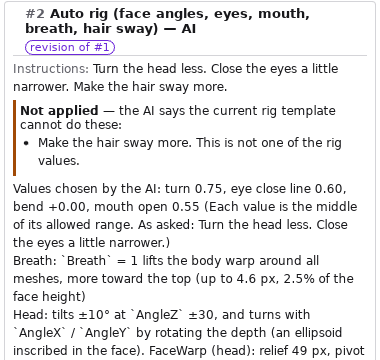
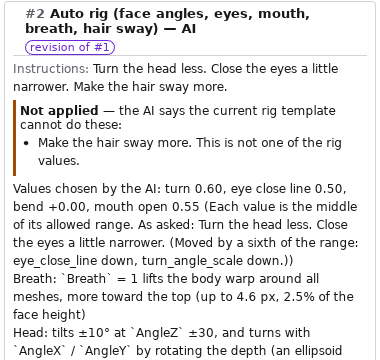
test(editor): make the fake ai provider follow instructions and retake ai-revision (T0061)
- test(editor): move rig values the fake ai provider follows and retake ai-revision
- chore(tasks): mark T0061 for review

Changed region(s): [[0.0289, 0.6417, 0.9553, 1.0], [0.55, 0.4889, 0.5789, 0.55], [0.8395, 0.5194, 0.8684, 0.55]]

diff --git a/docs/tasks/T0061-e2e-fake-ai-follows-instructions.md b/docs/tasks/T0061-e2e-fake-ai-follows-instructions.md
@@ -1,7 +1,7 @@
 ---
 id: T0061
 title: "e2e: 偽の AI のプロバイダが、注文に従うときに実際にリグの値を変え、ai-revision.png を撮り直す"
-status: in-progress
+status: done
 milestone: M10
 crates: [tests/e2e, docs]
 depends_on: [T0059]
@@ -18,11 +18,11 @@ assignee: claude-worker-T0061
 
 ## 受け入れ条件
 
-- [ ] 偽のプロバイダが、リグの値で従える注文の文 (例: 振り向きを大きく・目を細く) に従うとき、対応する値を決まった形で変える
+- [x] 偽のプロバイダが、リグの値で従える注文の文 (例: 振り向きを大きく・目を細く) に従うとき、対応する値を決まった形で変える
       (同じ注文なら同じ値。従えない文の `Not applied:` は今のまま)。変える規則を fake-ai.mjs のコメントと tests/e2e/README.md に書いた
-- [ ] 偽のプロバイダの単体テストがあれば足す (無ければ、作り直した提案の値が前と違うことを筋書きの中で確かめる)
-- [ ] `just e2e --manual` で ai-revision.png など注文の作り直しを写す画像を撮り直し、マニュアル (docs/manual) の説明と合うことを確かめた
-- [ ] `just e2e --only editor` と `just ci` が通る
+- [x] 偽のプロバイダの単体テストがあれば足す (無ければ、作り直した提案の値が前と違うことを筋書きの中で確かめる)
+- [x] `just e2e --manual` で ai-revision.png など注文の作り直しを写す画像を撮り直し、マニュアル (docs/manual) の説明と合うことを確かめた
+- [x] `just e2e --only editor` と `just ci` が通る
 
 ## 参考
 
@@ -33,3 +33,26 @@ assignee: claude-worker-T0061
 
 - T0058 で起票した (元の候補: T0969 (偽の AI のプロバイダが注文に従った値を返す))。
 - 同じ tests/e2e を触る T0059 (ビルドの形) の後にした。
+
+### T0061 の作業 (やったこと)
+
+- `tests/e2e/lib/fake-ai.mjs`: 注文の従う文 (髪・揺れ・帽子などの `Not applied:` の外) が、値の言葉 (振り向き・頭・turn・head →
+  `turn_angle_scale`、目・eye → `eye_close_line`、笑・smile → `eye_close_bend` (向きは逆)、口・mouth → `mouth_open_height`) と
+  向きの言葉 (控えめ・小さ・細・弱・less・narrower など / 大き・太・広・強・more・wider など) を持てば、その値を範囲の 6 分の 1 だけ
+  下げるか上げる (文ごとに足し、範囲の端で止める)。同じ注文なら同じ値。理由に `(Moved by a sixth of the range: <名前> down, ...)` を足す。
+  規則はファイルの先頭のコメントと tests/e2e/README.md (「偽の AI のプロバイダ」) に書いた。`Not applied:` の答えは変えていない。
+- 偽のプロバイダの単体テストは無いので、マニュアルの筋書き (`specs/editor.manual.mjs` の `ai-revision`) で、`get_proposals` の理由の
+  「Values chosen by the AI」が #1 は `turn 0.75, eye close line 0.60, ...`、作り直しは `turn 0.60, eye close line 0.50, ...` であることを確かめる。
+- `just e2e --update-images --only editor` (`--manual` を含む) で `ai-revision.png` を撮り直してコミットした (値が 0.60・0.50 に変わった)。
+  画像にパスは写っていない (カードの文だけ) ことを画像で確かめた。`ai-proposal.png` は注文が無いので変わらなかった。
+  docs/manual/ai.md の画像の説明に、値が注文に従って #1 より小さいことを足した。docs/manual-check.md の偽物の説明も今の形にした。
+- `just e2e --only editor`・`just e2e --update-images --only editor`・`just ci` が通った。
+
+### やらなかったこと
+
+- ai-revision の外の画像は、撮り直した結果をコミットしていない (動きの途中の差だけで、このタスクの範囲の外)。
+- 偽のプロバイダの単体テスト (`node --test`) は作っていない (just のレシピに足すのが範囲の外のため。筋書きで確かめる)。
+
+### 起票の候補
+
+- 無し。

diff --git a/tests/e2e/README.md b/tests/e2e/README.md
@@ -166,8 +166,14 @@ CI では失敗したときに `target/e2e` (実行ファイルを除く) を成
 - 提案の元は 2 つ: 見本の着せ替えの本体に「Import PSD…」で取り込んだ PSD (物理とスロットを持つ本体に提案を重ねる。リグの提案が
   本体の物理の衝突体 `Shoulders` を外し、スロット `Hair` の参照が壊れて提案が作れなかった T1627 の回帰) と、「New from PSD…」で
   作った本体の要素の無いプロジェクト (T0039)。どちらも `proposeAndPreview` (specs/editor.test.mjs) で提案とプレビューを確かめる。
-- 利用者の注文 (プロンプトの `<user_instructions>`) があれば、リグの値の理由に、従った文と、髪・揺れ・帽子のようにリグの値では変えられない
-  文の `Not applied:` の行を足す (マニュアルの画像 `ai-revision` の「Not applied」)。値は変えない。
+- 利用者の注文 (プロンプトの `<user_instructions>`) があれば、文 (`。`・`.`・`!`・`?` で区切る) ごとに答える。髪・揺れ・帽子のように
+  リグの値では変えられない文は、理由に `Not applied:` の行を足す (マニュアルの画像 `ai-revision` の「Not applied」)。ほかの文には従う:
+  文が値の言葉 (振り向き・頭・turn・head → `turn_angle_scale`、目・eye → `eye_close_line`、笑・smile → `eye_close_bend`、口・mouth →
+  `mouth_open_height`) と向きの言葉 (控えめ・小さ・細・弱・less・smaller・narrower など → 下げる、大き・太・広・強・more・larger・wider など →
+  上げる。笑いは逆で、上げる言葉で `eye_close_bend` を下げる) を持てば、その値を範囲の 6 分の 1 だけ動かす (文ごとに足し、範囲の端で止める)。
+  同じ注文なら同じ値。どちらかの言葉が無い文は、値を変えずに従ったことにする。理由には従った文と動かした値
+  (`(Moved by a sixth of the range: turn_angle_scale down, ...)`) を足す。マニュアルの筋書きの作り直し (「Turn the head less. Close the eyes
+  a little narrower. Make the hair sway more.」) は、振り向き 0.75 → 0.60・目の閉じる線 0.60 → 0.50 になり、筋書きがその値を確かめる (T0061)。
 - MCP の経路 (エディタにつないだエージェントの提案) は筋書きでは使わない。ポートとトークンの準備が要り、画面の操作が提案の一覧から先は同じため。
   マニュアルの画像は偽のエージェントで撮る (下の「偽のエージェント」)。
 

diff --git a/docs/manual-check.md b/docs/manual-check.md
@@ -647,7 +647,7 @@ M10 (UI の品質) で直した画面を、ヘッドレスの Chrome (`just ui-a
 - 手順: 設定で Claude API (または OpenAI 互換の API) のキーを入れ、送信に同意して PSD からの自動リギングを提案させ、採用する。
   OpenAI 互換は OpenAI・OpenRouter・Gemini・Ollama・LM Studio のうち使えるもの。
 - 期待: キーが OS のキーチェーンに保存され、起動し直しても残る。提案が出て、採用するとモデルが動く。
-  マニュアルの AI の画像 (`ai-proposal`・`ai-revision` など) は e2e の偽の AI のプロバイダ (値は範囲の真ん中、理由は決まった文) で撮ったものなので、
+  マニュアルの AI の画像 (`ai-proposal`・`ai-revision` など) は e2e の偽の AI のプロバイダ (値は範囲の真ん中から、注文の文の言葉で決まった量だけ動かす。理由は決まった文) で撮ったものなので、
   本物の AI の答え (理由の文・Not applied) の出方が画像と同じ形かも見る。
 - 元: T0509・T0512・T0517・T0519・T0523・T0637・T0638・T0644
 - 結果: W 未 ・ M 未 ・ L 未
